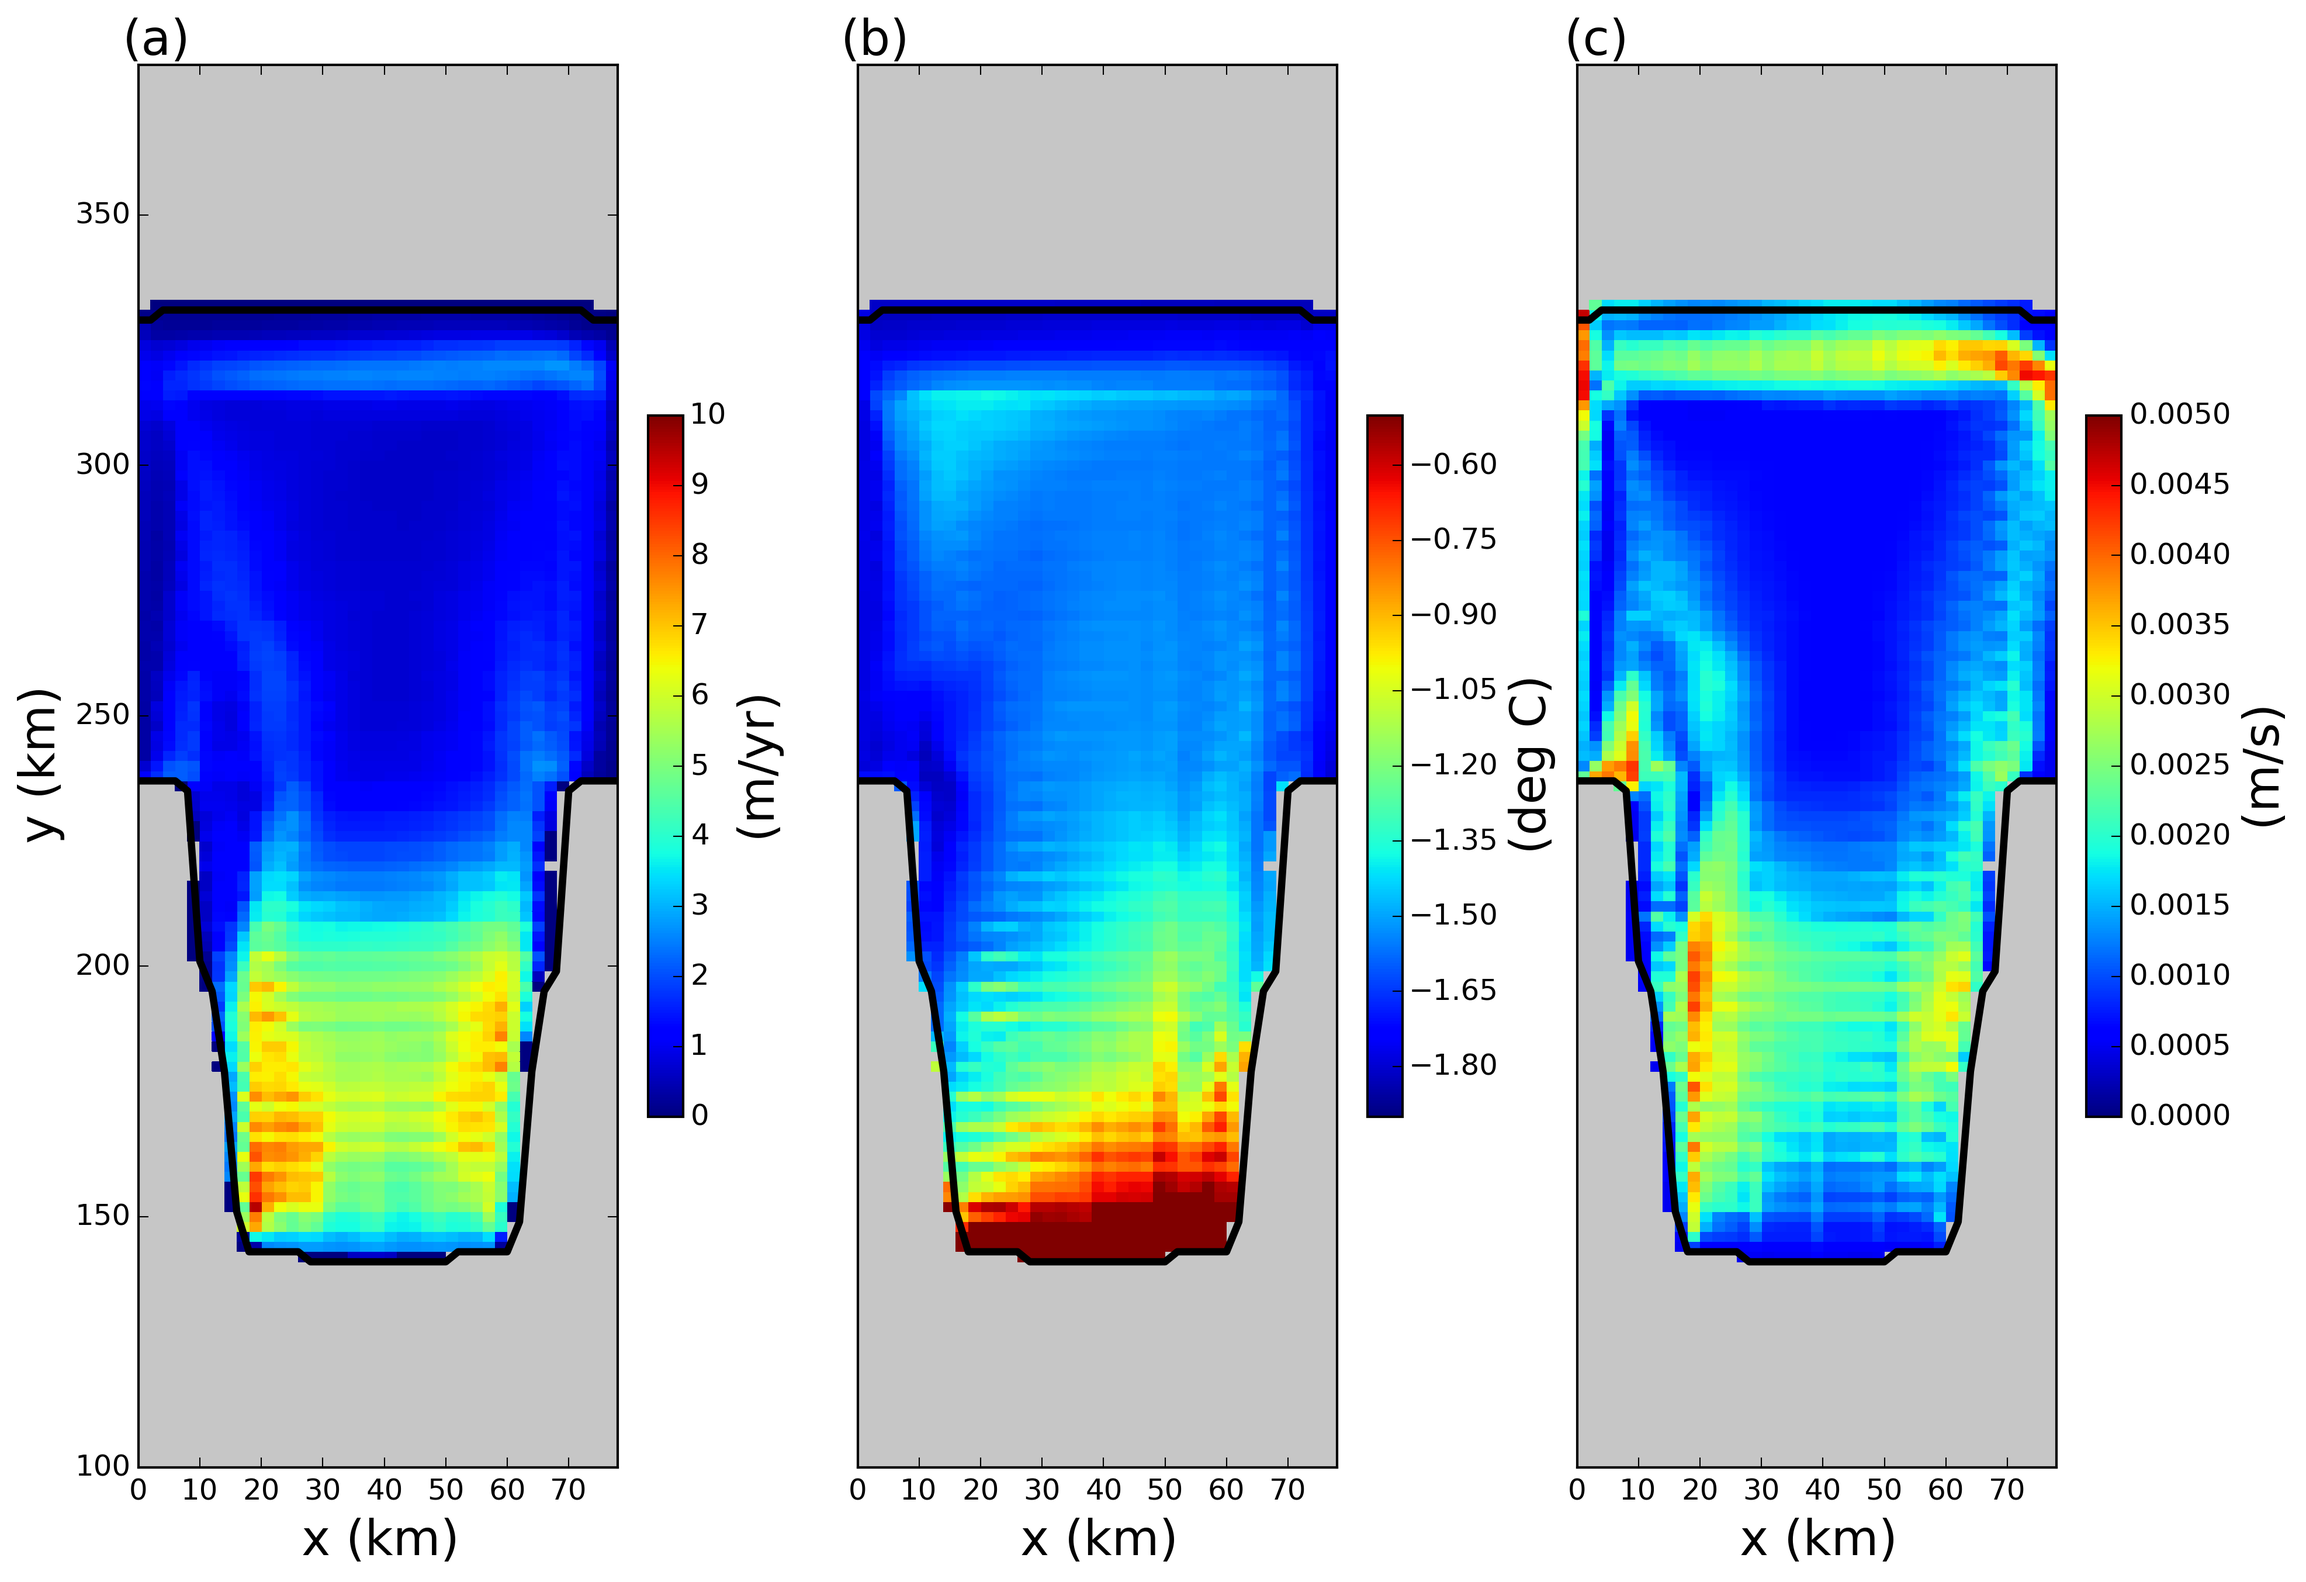
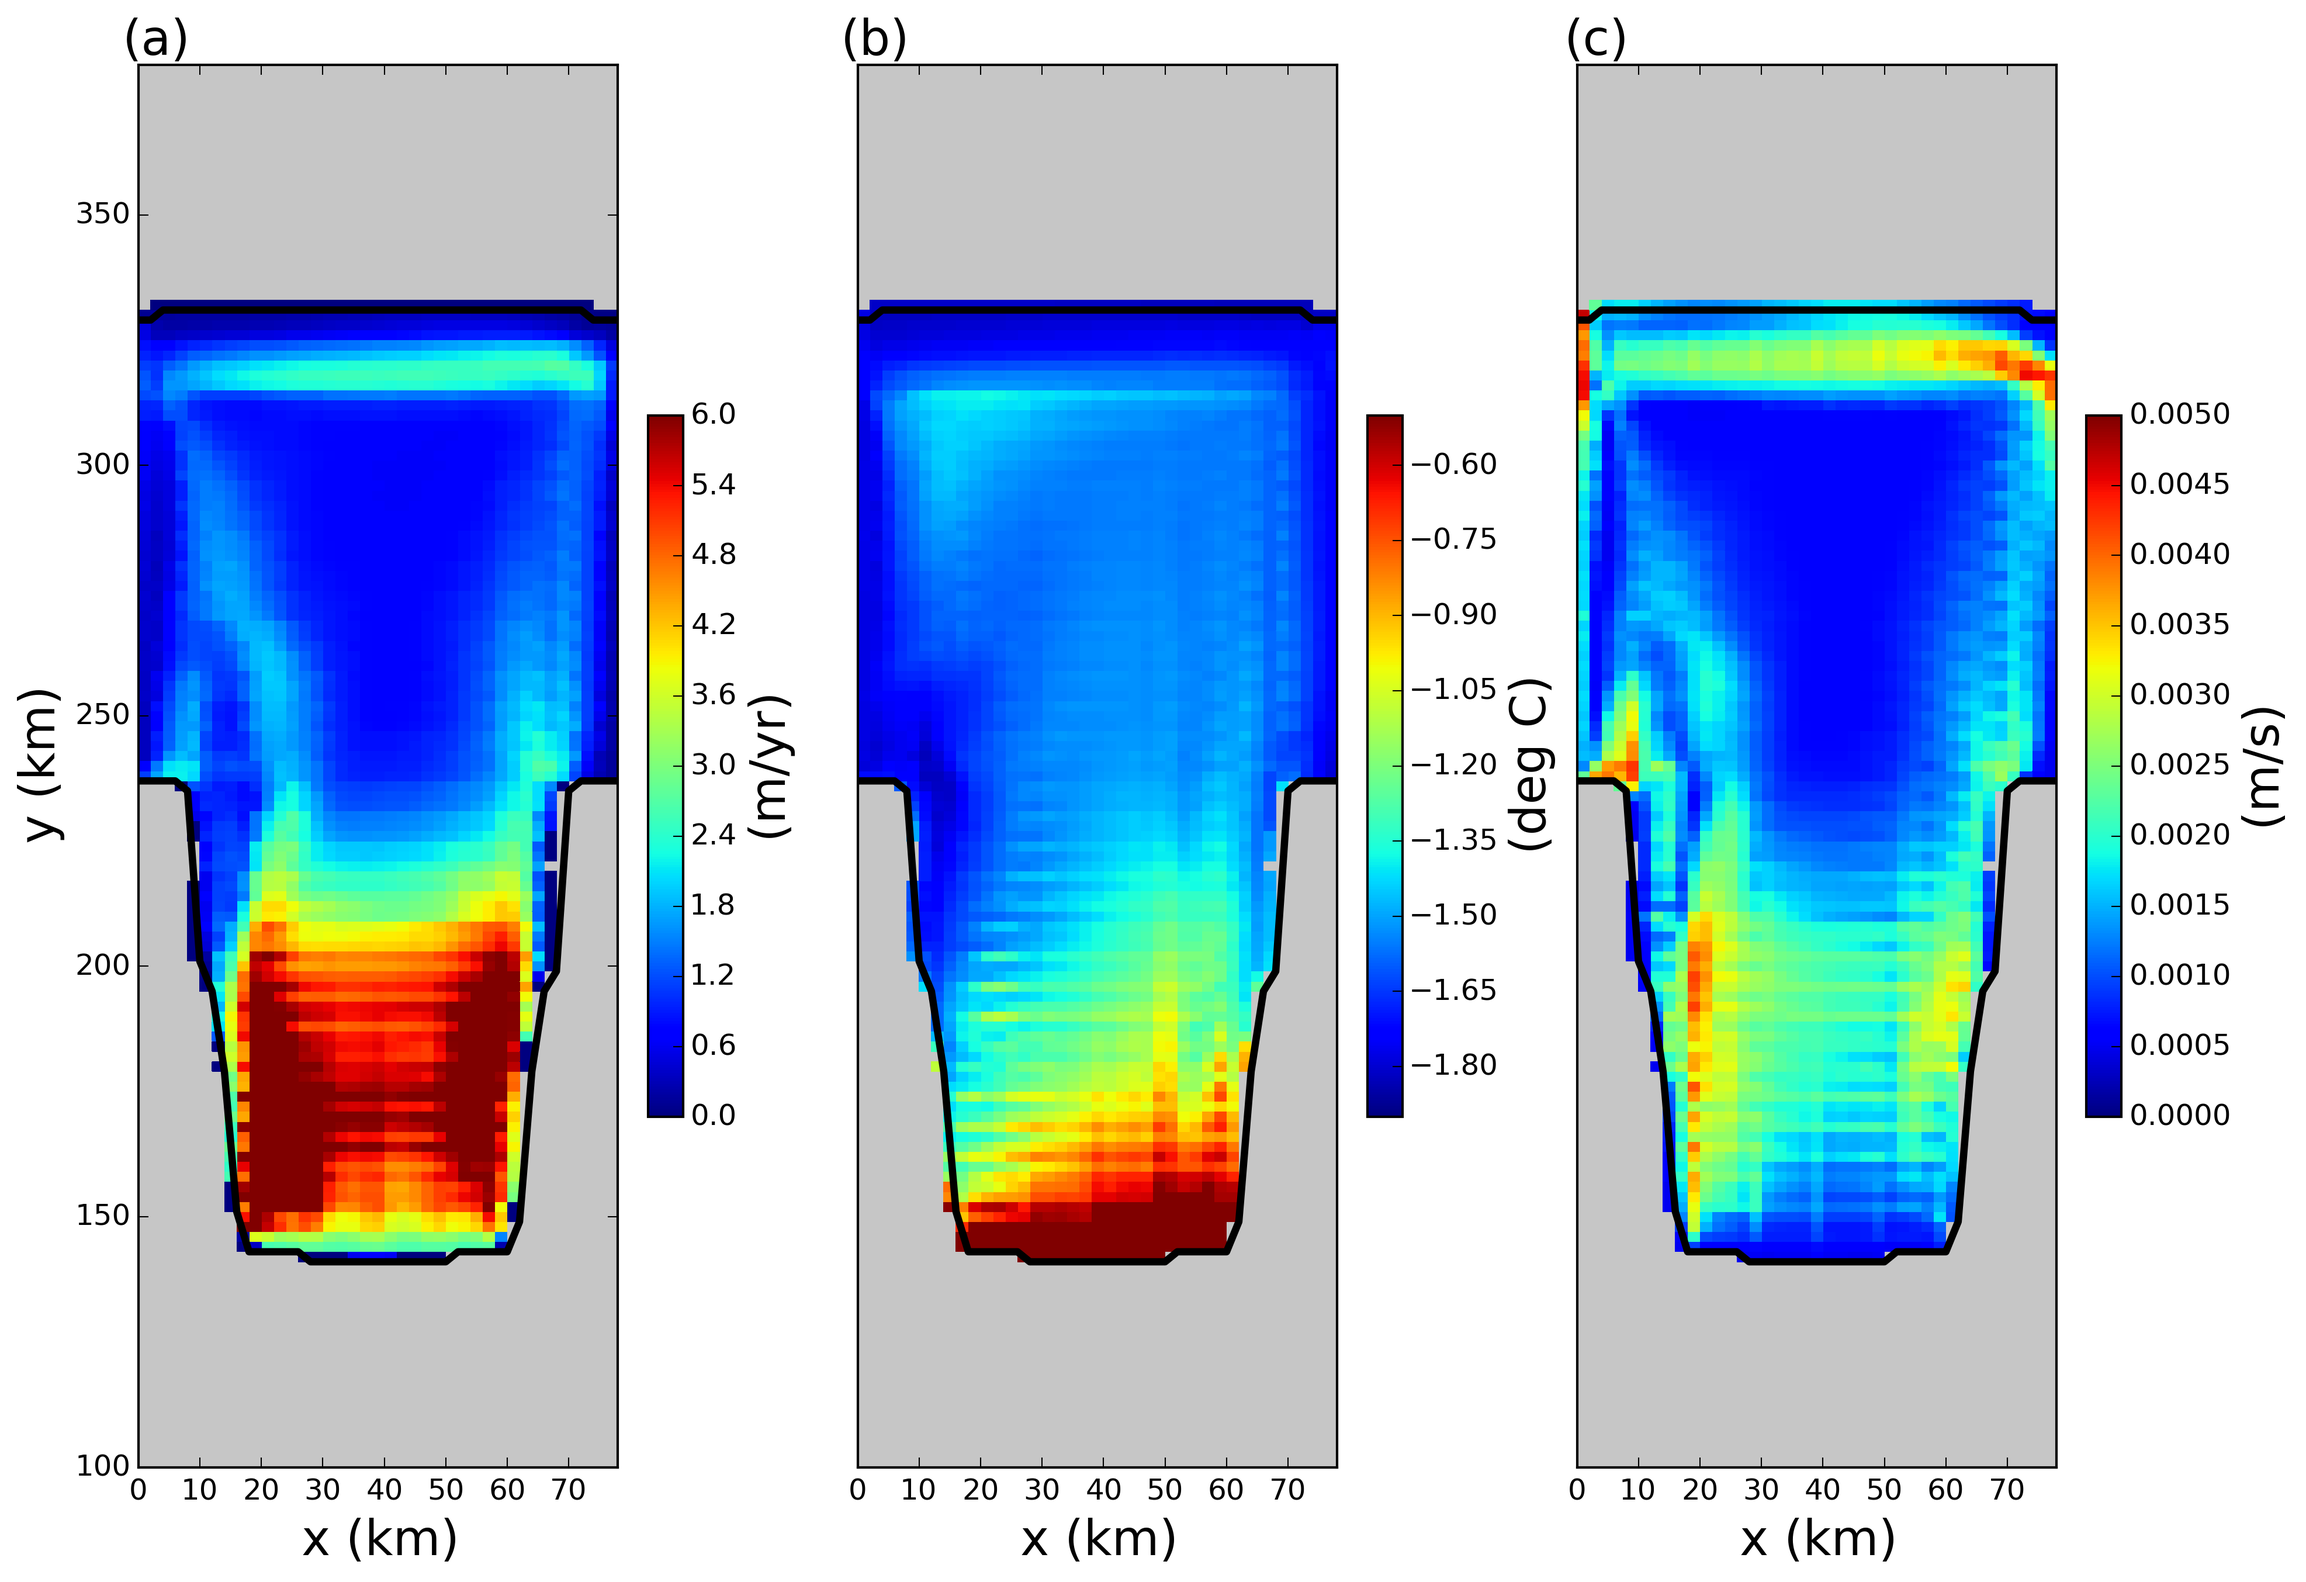
Added lables to BT_comparison Figure

Changed region(s): [[0.0623, 0.1862, 0.2805, 0.8068], [0.3117, 0.4344, 0.3429, 0.5275]]

diff --git a/static_shelf_comparison.py b/static_shelf_comparison.py
@@ -565,7 +565,8 @@ def main(args):
 	Berg_ocean_file=Berg_path+'00010101.ocean_month.nc'
 	Berg_iceberg_file=Berg_path+'00010101.icebergs_month.nc'
 
-
+	#Other
+	letter_labels=np.array(['(a)','(b)','(c)','(d)','(e)'])
 
 	#Load static fields
 	(depth, shelf_area, ice_base, x,y, xvec, yvec)=load_static_variables(ocean_geometry_filename,ice_geometry_filename,ISOMIP_IC_filename,rotated)	
@@ -616,21 +617,26 @@ def main(args):
 
 		data1=calculate_barotropic_streamfunction(Shelf_ocean_file,depth,ice_base,time_slice='mean',time_slice_num=-1,rotated=rotated)
 		data2=calculate_barotropic_streamfunction(Berg_ocean_file,depth,ice_base,time_slice='mean',time_slice_num=-1,rotated=rotated)
-		plt.subplot(1,3,1)
+		ax=plt.subplot(1,3,1)
 		plot_data_field(data2,x,y,vmin,vmax,flipped,colorbar=True,cmap=cmap,title='Lagrangian',\
 				xlabel='x (km)',ylabel='y (km)',colorbar_shrink=0.5,colorbar_units='(Sv)')	
                 plt.plot(xvec,grounding_line, linewidth=3.0,color='black')
                 plt.plot(xvec,ice_front, linewidth=3.0,color='black')
-		plt.subplot(1,3,2)
+		text(0.1,1,letter_labels[0], ha='right', va='bottom',transform=ax.transAxes,fontsize=20)
+		
+		ax=plt.subplot(1,3,2)
 		plot_data_field(data1,x,y,vmin,vmax,flipped,colorbar=True,cmap=cmap,title='Eularian',\
 				xlabel='x (km)',ylabel='',colorbar_shrink=0.5,colorbar_units='(Sv)')	
                 plt.plot(xvec,grounding_line, linewidth=3.0,color='black')
                 plt.plot(xvec,ice_front, linewidth=3.0,color='black')
-		plt.subplot(1,3,3)
+		text(0.1,1,letter_labels[1], ha='right', va='bottom',transform=ax.transAxes,fontsize=20)
+		
+		ax=plt.subplot(1,3,3)
 		plot_data_field(data1-data2,x,y,-vmax, vmax, flipped,colorbar=True,cmap='bwr',title='Difference',\
 				xlabel='x (km)',ylabel='',colorbar_shrink=0.5,colorbar_units='(Sv)')	
                 plt.plot(xvec,grounding_line, linewidth=3.0,color='black')
                 plt.plot(xvec,ice_front, linewidth=3.0,color='black')
+		text(0.1,1,letter_labels[2], ha='right', va='bottom',transform=ax.transAxes,fontsize=20)
 
 	if fields_to_compare=='plot_cross_section':
 		plot_anomaly=True

diff --git a/static_shelf_solo.py b/static_shelf_solo.py
@@ -117,6 +117,9 @@ def parseCommandLine():
 		                        help='''Minimum y used for plotting (only applies to horizontal sections)''')
 
 
+	parser.add_argument('-melt_vmax', type=float, default=10.0,
+		                        help='''Maximum melt rate used for plotting colorbar (only applies to melt, temp, ustar figure)''')
+
 
         optCmdLineArgs = parser.parse_args()
         return optCmdLineArgs
@@ -246,7 +249,7 @@ def main(args):
 			vmax_list=np.array([3.0, -0.5, 0.001])
 			if use_ALE is True:
 				vmin_list=np.array([0.0, -1.9, 0.0])
-				vmax_list=np.array([10.0, -0.5, 0.005])
+				vmax_list=np.array([args.melt_vmax, -0.5, 0.005])
 			cmap_list=np.array(['jet', 'jet', 'jet'])
 			mask_grounded=np.array([True,True, True])
 			#mask_open_ocean=np.array([True,False, True])
